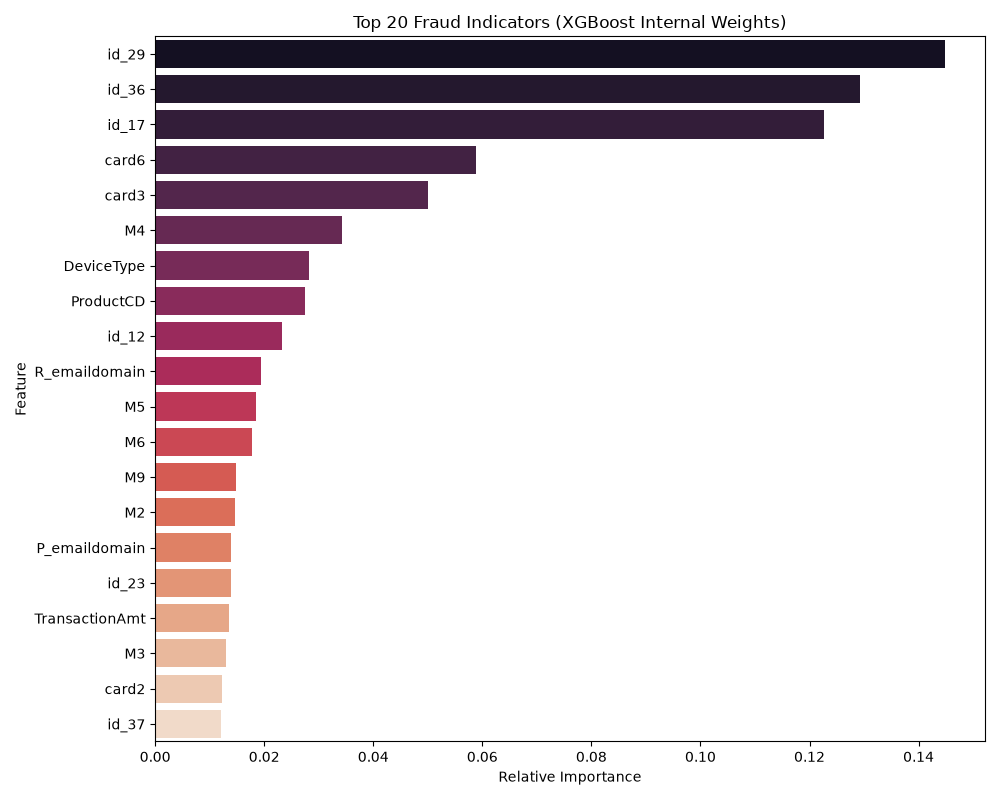
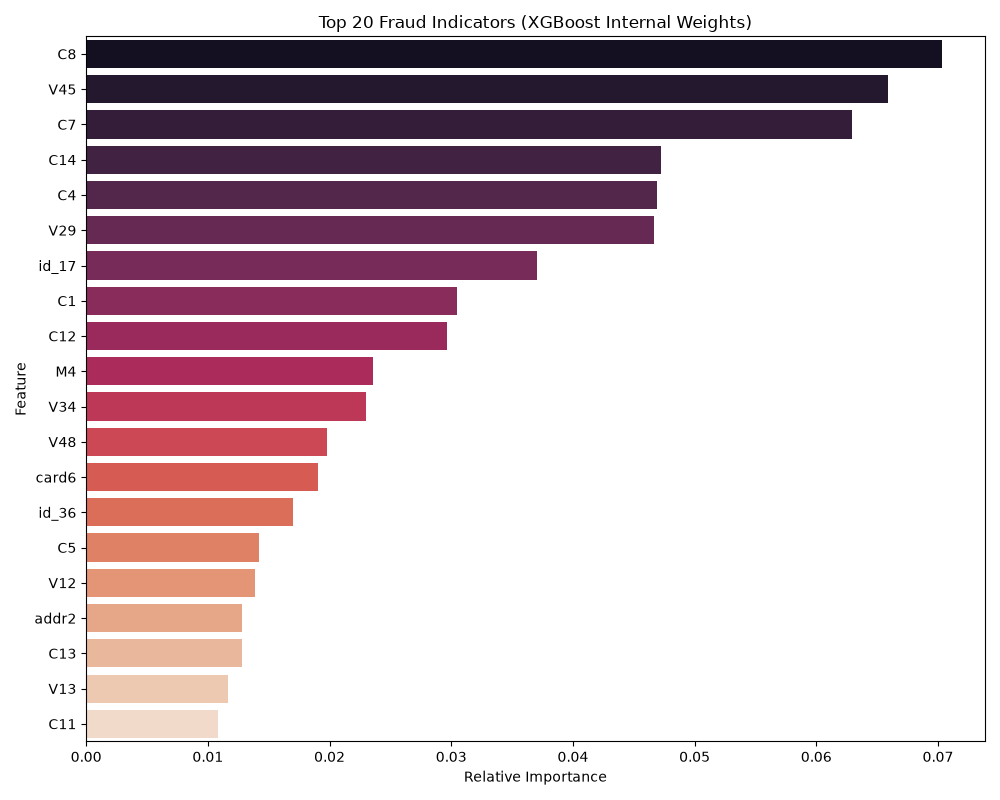
feat: upgrade pipeline to V2 with math features and strict categorical alignment

diff --git a/main.py b/main.py
@@ -1,20 +1,23 @@
 from src.data_loader import load_and_merge
+import pandas as pd
 from src.feature_engineering import run_feature_pipeline
 from src.model_training import prepare_data, train_xgboost, evaluate_and_save
 from src.inference import generate_submission
 from src.explainability import plot_feature_importance
+
 
 # ==========================================
 # 1. FEATURE SELECTION CONFIGURATION
 # ==========================================
 # Define base features
 MY_FEATURES = [
-    'TransactionAmt', 'ProductCD', 'addr1', 'addr2', 
-    'P_emaildomain', 'R_emaildomain', 'DeviceType', 'DeviceInfo'
+    'TransactionAmt', 'ProductCD', 'addr1', 'addr2', 'card1',
+    'card2', 'card3', 'card4', 'card5', 'card6','P_emaildomain',
+    'R_emaildomain', 'DeviceType', 'DeviceInfo'
 ]
 
-# Dynamically generate numbered features to keep the code clean
-MY_FEATURES += [f'card{i}' for i in range(1, 7)]      # card1 to card6
+MY_FEATURES += [f'C{i}' for i in range(1, 15)]     
+MY_FEATURES += [f'V{i}' for i in range(1, 51)]        
 MY_FEATURES += [f'M{i}' for i in range(1, 10)]        # M1 to M9
 MY_FEATURES += [f'id_{i}' for i in range(12, 39)]     # id_12 to id_38
 
@@ -31,10 +34,20 @@ if __name__ == "__main__":
     # Step 2: Process the Training Set
     print("\nProcessing Training Data...")
     train_processed = run_feature_pipeline(train, features_to_keep=MY_FEATURES)
-    
     # Step 3: Process the Testing Set identically to prevent data leakage
     print("\nProcessing Test Data...")
     test_processed = run_feature_pipeline(test, features_to_keep=MY_FEATURES)
+
+    # ---> PASTE IT EXACTLY HERE <---
+    print("Aligning categorical data structures...")
+    for col in train_processed.columns:
+        if train_processed[col].dtype.name == 'category' and col in test_processed.columns:
+            test_processed[col] = pd.Categorical(
+                test_processed[col], 
+                categories=train_processed[col].cat.categories
+            )
+
+    print("Status: READY FOR MODEL TRAINING")
 
     # Step 4: Final Output Validation
     print("\n========================================")

diff --git a/src/inference.py b/src/inference.py
@@ -11,6 +11,20 @@ def generate_submission(model, test_processed: pd.DataFrame):
     
     # 2. Drop the ID column so we only feed the 50 math features into XGBoost
     X_test = test_processed.drop(['TransactionID'], axis=1)
+
+
+    # Extract the exact column names and order the model was trained on
+    expected_cols = model.feature_names_in_
+    
+    # Check if we are missing any columns in the test set
+    for col in expected_cols:
+        if col not in X_test.columns:
+            print(f"Warning: Missing column {col} in test data. Filling with -999.")
+            X_test[col] = -999
+            
+    # Force X_test to have the exact same columns in the exact same order
+    X_test = X_test[expected_cols]
+    
     
     # 3. Predict the PROBABILITY of fraud (using [:, 1] to get the "Fraud" column)
     predictions = model.predict_proba(X_test)[:, 1]

diff --git a/src/feature_engineering.py b/src/feature_engineering.py
@@ -20,7 +20,7 @@ def select_features(df: pd.DataFrame, features_to_keep: list) -> pd.DataFrame:
 def handle_missing_values(df: pd.DataFrame) -> pd.DataFrame:
     for col in df.columns:
         if pd.api.types.is_numeric_dtype(df[col]):
-            df[col] = df[col].fillna(df[col].median())
+            df[col] = df[col].fillna(-999)
         else:
             df[col] = df[col].fillna('missing')
     return df